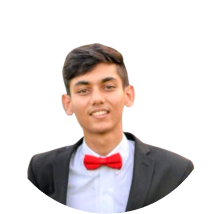
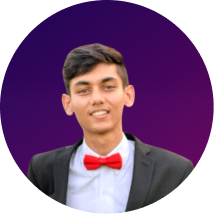
populate contact us

diff --git a/src/Components/ContactProfileCard/ContactUs.jsx b/src/Components/ContactProfileCard/ContactUs.jsx
@@ -2,6 +2,74 @@ import "./ContactUs.css";
 
 import ContactProfileCard from "./ContactProfileCard"
 
+const
+    contacts = [
+        {
+            profileImage: "priyanshu",
+            Name: "Priyanshu Shukla",
+            Designation: "Website and Payments",
+            Mobile: "+91 81077 28892",
+            Email: ["webmaster@bits-apogee.org"]
+        },
+
+        {
+            profileImage: "shashwath",
+            Name: "Shashwath M S",
+            Designation: "Reception and Accomodation",
+            Mobile: "+91 99729 59249",
+            Email: ["recnacc@bits-apogee.org"]
+        },
+        {
+            profileImage: "shukla",
+            Name: "Harsh Shukla",
+            Designation: "President, Student Union",
+            Mobile: "+91 73909 67807",
+            Email: ["president@pilani.bits-pilani.ac.in"]
+        },
+        {
+            profileImage: "rhythm",
+            Name: "Rhytm Saxena",
+            Designation: "Publicity and Online Partnerships",
+            Mobile: "+91 95823 19968",
+            Email: ["collaborations@bits-apogee.org"]
+        },
+        {
+            profileImage: "lamba",
+            Name: "Harsh Lamba",
+            Designation: "General Secretary, Student Union",
+            Mobile: "+91 70827 69694",
+            Email: ["gensec@pilani.bits-pilani.ac.in"]
+        },
+        {
+            profileImage: "shreya",
+            Name: "Shreya Gupta",
+            Designation: "Sponsorship and Marketing",
+            Mobile: "+91 82199 13843",
+            Email: ["sponsorship@bits-apogee.org"]
+        },
+        {
+            profileImage: "navya",
+            Name: "Navya Bhatnagar",
+            Designation: "Registration, Events and Projects",
+            Mobile: "+91 70227 34110",
+            Email: ["controls@bits-apogee.org"]
+        },
+        {
+            profileImage: "vidhushi",
+            Name: "Vidushi Sahay",
+            Designation: "Registrations and Correspondence",
+            Mobile: "+91 98719 41631",
+            Email: ["pcr@bits-apogee.org"]
+        },
+        {
+            profileImage: "divyam",
+            Name: "Divyam Chauhan",
+            Designation: "Guest Lectures and Paper Presentations",
+            Mobile: "+91 97997 56083",
+            Email: ["pep@bits-apogee.org", "guestlectures@bits-apogee.org"]
+        }
+    ]
+
 
 function ContactUs() {
 
@@ -9,15 +77,10 @@ function ContactUs() {
         <div className="contactUsWrapper">
             <div className="SectionHeading aboutUsHeading ">CONTACT US</div>
             <div className="cards">
-                <ContactProfileCard />
-                <ContactProfileCard />
-                <ContactProfileCard />
-                <ContactProfileCard />
-                <ContactProfileCard />
-                <ContactProfileCard />
-                <ContactProfileCard />
-                <ContactProfileCard />
-                <ContactProfileCard />
+                {contacts.map((e) => {
+
+                    return < ContactProfileCard profileImage={e.profileImage} Name={e.Name} Designation={e.Designation} Mobile={e.Mobile} Email={e.Email} />
+                })}
             </div>
 
         </div>

diff --git a/src/Components/ContactProfileCard/ContactProfileCard.js b/src/Components/ContactProfileCard/ContactProfileCard.js
@@ -1,21 +1,24 @@
 import React from "react";
 import "./ContactProfileCard.css";
 
-export default function ContactProfileCard() {
+export default function ContactProfileCard(props) {
   return (
     <div>
       {/* <div className="contactUsTitle">CONTACT US</div> */}
       <div className="cardWrapper">
-        <div className="profileImage"></div>
+        <div className="profileImage" ><img src={require(`./../../assets/ContactUsAssets/${props.profileImage}.png`)} /></div>
 
         <div className="profileContent">
-          <h1>Priyanshu Shukla</h1>
-          <p>Guest Lectures and Paper<br></br> Presentations</p>
+          <h1>{props.Name}</h1>
+          <p>{props.Designation}</p>
 
-          <p>+91 88727 11250</p>
+          <p>{props.Mobile}</p>
 
           <p>
-            pep@bits-apogee.org <br></br> gueslectures@bits-apogee.org
+            {props.Email.length == 1 ?
+              props.Email[0] :
+              `${props.Email[0]}\n${props.Email[1]}`
+            }
           </p>
         </div>
       </div>

diff --git a/src/Components/ContactProfileCard/ContactProfileCard.css b/src/Components/ContactProfileCard/ContactProfileCard.css
@@ -24,12 +24,13 @@
     align-items: center;
     margin: 120px 10px 10px 10px;
     padding: 0px 30px 20px;
+    max-width:20vw
 }
 
-.profileImage{
+.profileImage > img{
     height: 150px;
     aspect-ratio: 1;
-    background-image: url("https://user-images.githubusercontent.com/69129797/160004780-1b581322-d7cf-4f5f-bce2-bbea4e129e67.png");
+    /* background-image: url("https://user-images.githubusercontent.com/69129797/160004780-1b581322-d7cf-4f5f-bce2-bbea4e129e67.png"); */
     background-size: cover;
     border-radius: 1000px;
     margin-top: -75px;
@@ -48,5 +49,12 @@
     font-size: 14px;
     opacity: 0.8;
     padding: 5px 5px;
+    white-space: break-spaces;
 
+}
+
+@media all and (max-width: 768px) {
+    .cardWrapper{
+        max-width:80vw
+    }
 }
